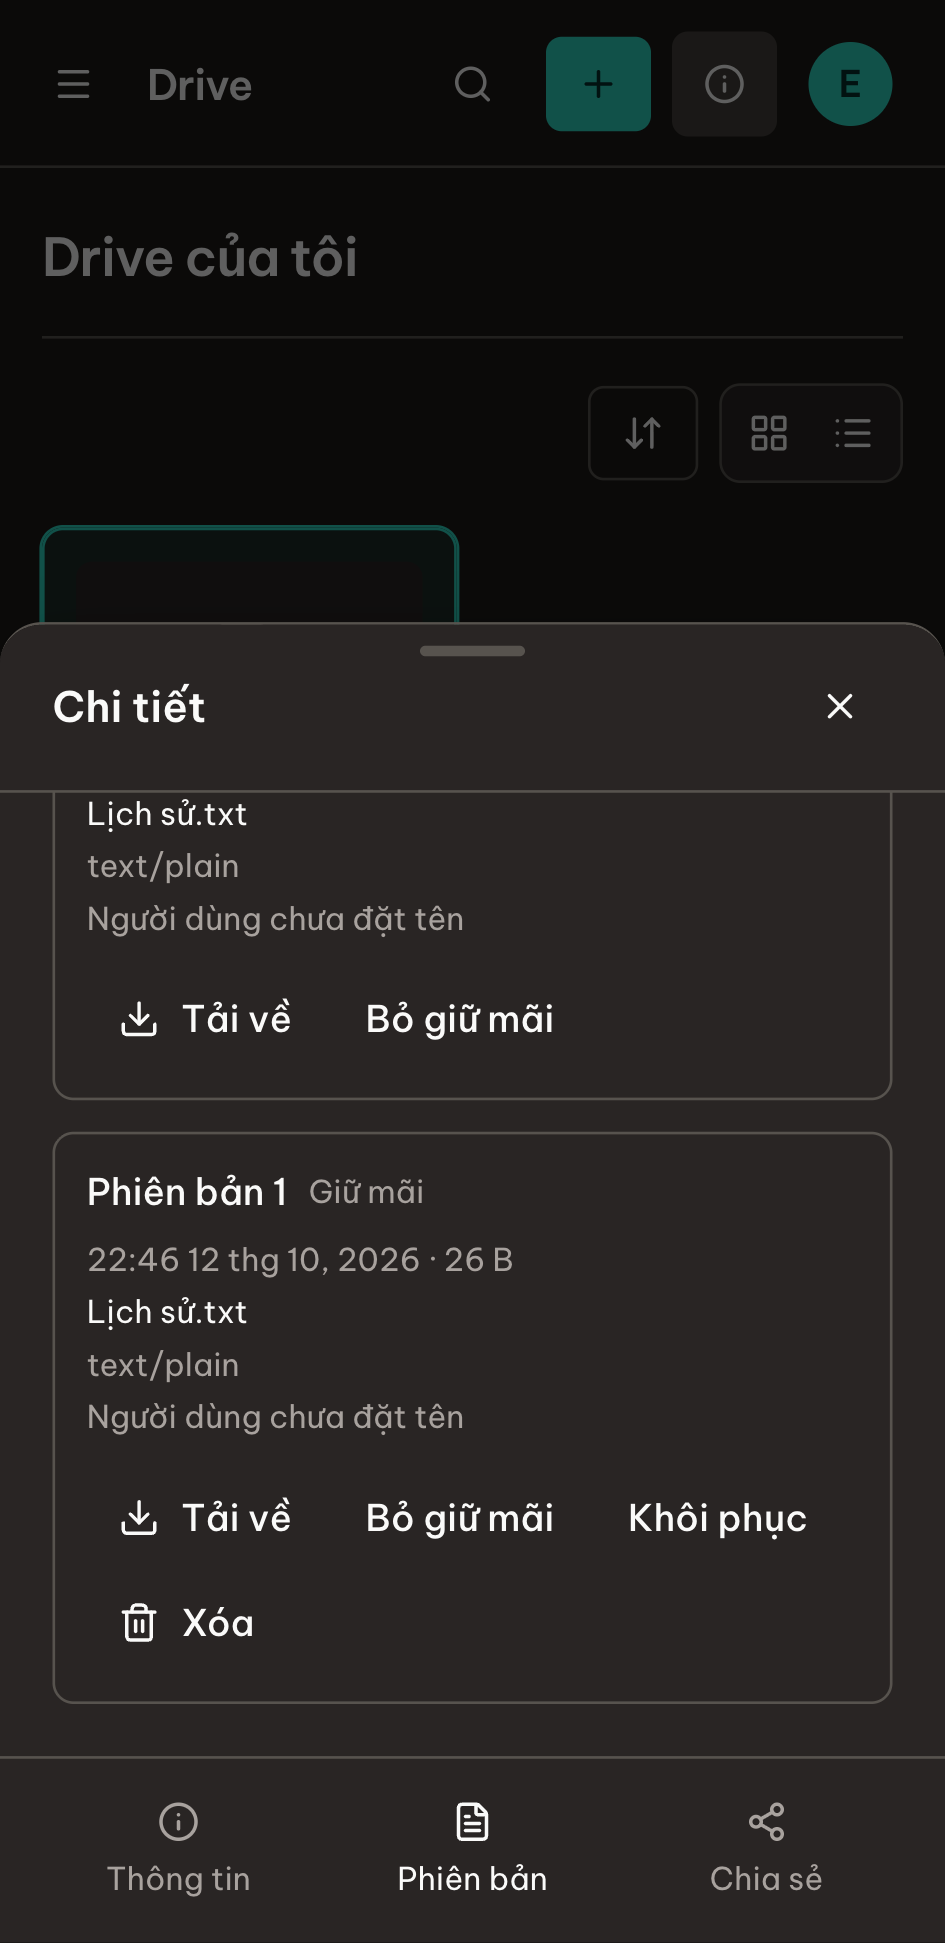
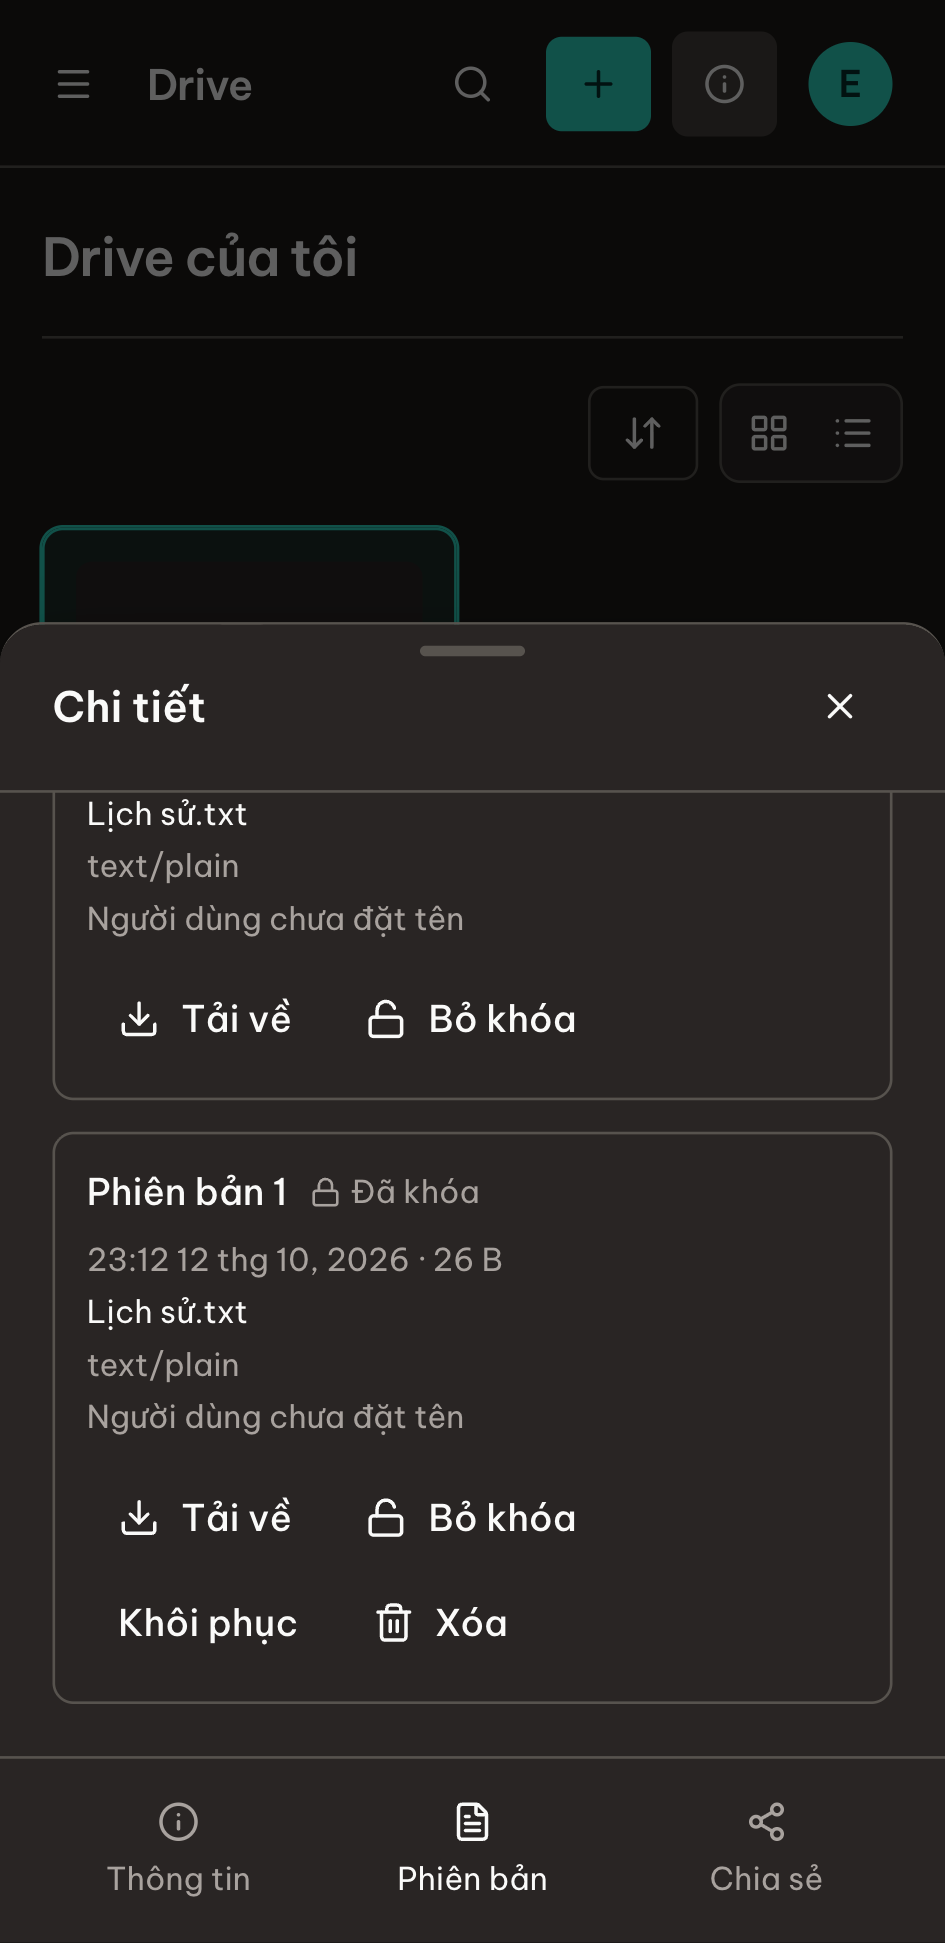
fix(fe-versions): clarify version locking controls
Rename retention actions to Lock and Unlock with explanatory titles
and matching icons. Keep storage accounting unchanged.

Refs #159

diff --git a/qloud_frontend/src/features/versions/version-panel.tsx b/qloud_frontend/src/features/versions/version-panel.tsx
@@ -1,6 +1,6 @@
 import * as React from 'react';
 import * as Dialog from '@radix-ui/react-dialog';
-import { Download, History, Trash2 } from 'lucide-react';
+import { Download, History, Lock, LockOpen, Trash2 } from 'lucide-react';
 import { useTranslation } from 'react-i18next';
 import { useQueryClient } from '@tanstack/react-query';
 import { Button } from '@/components/ui/button';
@@ -116,7 +116,11 @@ export function VersionPanel({ node }: { node: DriveNode }): React.JSX.Element {
                   </span>
                 )}
                 {version.keep_forever && (
-                  <span className="text-xs text-muted-foreground">
+                  <span
+                    className="inline-flex items-center gap-1 text-xs text-muted-foreground"
+                    title={t('versions.keepTitle')}
+                  >
+                    <Lock className="size-3" aria-hidden="true" />
                     {t('versions.kept')}
                   </span>
                 )}
@@ -170,6 +174,11 @@ export function VersionPanel({ node }: { node: DriveNode }): React.JSX.Element {
                     size="sm"
                     disabled={pending}
                     aria-pressed={version.keep_forever}
+                    title={t(
+                      version.keep_forever
+                        ? 'versions.unkeepTitle'
+                        : 'versions.keepTitle',
+                    )}
                     aria-label={t('versions.keepLabel', {
                       number: version.version_number,
                     })}
@@ -177,6 +186,11 @@ export function VersionPanel({ node }: { node: DriveNode }): React.JSX.Element {
                       retention.mutate(version);
                     }}
                   >
+                    {version.keep_forever ? (
+                      <LockOpen aria-hidden="true" />
+                    ) : (
+                      <Lock aria-hidden="true" />
+                    )}
                     {t(
                       version.keep_forever
                         ? 'versions.unkeep'

diff --git a/qloud_frontend/src/features/versions/versions.test.tsx b/qloud_frontend/src/features/versions/versions.test.tsx
@@ -94,7 +94,7 @@ describe('version panel', () => {
       role = value;
       setup();
       expect(await screen.findByText('Hiện tại')).toBeVisible();
-      expect(screen.getAllByText('Giữ mãi').length).toBeGreaterThan(0);
+      expect(screen.getAllByText('Đã khóa').length).toBeGreaterThan(0);
       expect(screen.getAllByText('Tài khoản đã bị xóa')).toHaveLength(2);
       expect(
         screen.getByRole('button', { name: 'Tải phiên bản 1' }),
@@ -369,15 +369,19 @@ it('owner toggles current and old retention only after success and handles error
   setup();
   const user = userEvent.setup();
   const old = await screen.findByRole('button', {
-    name: 'Giữ mãi phiên bản 1',
+    name: 'Khóa phiên bản 1',
   });
   expect(old).toHaveAttribute('aria-pressed', 'false');
+  expect(old).toHaveTextContent('Khóa');
+  expect(old).toHaveAttribute('title', i18n.t('versions.keepTitle'));
   await user.click(old);
   await waitFor(() => expect(old).toHaveAttribute('aria-pressed', 'true'));
-  await user.click(screen.getByRole('button', { name: 'Giữ mãi phiên bản 2' }));
+  expect(old).toHaveTextContent('Bỏ khóa');
+  expect(old).toHaveAttribute('title', i18n.t('versions.unkeepTitle'));
+  await user.click(screen.getByRole('button', { name: 'Khóa phiên bản 2' }));
   await waitFor(() =>
     expect(
-      screen.getByRole('button', { name: 'Giữ mãi phiên bản 2' }),
+      screen.getByRole('button', { name: 'Khóa phiên bản 2' }),
     ).toHaveAttribute('aria-pressed', 'false'),
   );
   expect(patch).toHaveBeenCalledWith(
@@ -399,7 +403,7 @@ it.each(['viewer', 'editor'] as const)(
     setup();
     await screen.findByText('Hiện tại');
     expect(
-      screen.queryByRole('button', { name: 'Giữ mãi phiên bản 1' }),
+      screen.queryByRole('button', { name: 'Khóa phiên bản 1' }),
     ).not.toBeInTheDocument();
   },
 );

diff --git a/qloud_frontend/e2e/version-ui.spec.ts b/qloud_frontend/e2e/version-ui.spec.ts
@@ -207,7 +207,7 @@ for (const role of ['viewer', 'editor'] as const) {
         actor.getByRole('button', { name: 'Xóa phiên bản 1' }),
       ).toHaveCount(0);
       await expect(
-        actor.getByRole('button', { name: 'Giữ mãi phiên bản 1' }),
+        actor.getByRole('button', { name: 'Khóa phiên bản 1' }),
       ).toHaveCount(0);
       if (role === 'viewer') {
         await expect(
@@ -280,14 +280,14 @@ test('owner toggles keep forever on old and current versions', async ({
   await page.goto('/drive');
   await openHistory(page);
   const old = page.getByRole('button', {
-    name: 'Giữ mãi phiên bản 1',
+    name: 'Khóa phiên bản 1',
     exact: true,
   });
   await expect(old).toHaveAttribute('aria-pressed', 'false');
   await old.click();
   await expect(old).toHaveAttribute('aria-pressed', 'true');
   const current = page.getByRole('button', {
-    name: 'Giữ mãi phiên bản 2',
+    name: 'Khóa phiên bản 2',
     exact: true,
   });
   await current.click();

diff --git a/qloud_docs/features/versioning.md b/qloud_docs/features/versioning.md
@@ -15,7 +15,7 @@
   Khi đó Blob cần đếm số tham chiếu (reference count), hoặc chỉ được xóa khi không còn version nào trỏ tới.
 - Xóa một phiên bản: chỉ owner, không xóa được phiên bản hiện tại. Dung lượng chỉ được giảm khi Blob không còn ai tham chiếu.
 - Chính sách giữ lại phiên bản theo plan của owner: giữ tối đa `max_versions_per_file` phiên bản cũ, và phiên bản cũ quá `version_retention_days` thì bị dọn
-  (plan mặc định: 100 phiên bản, 30 ngày). Phiên bản được đánh dấu **"Giữ mãi"** (`keep_forever`) không bị dọn tự động. Celery dọn hằng ngày.
+  (plan mặc định: 100 phiên bản, 30 ngày). Phiên bản được đánh dấu **"Khóa"** (`keep_forever`) không bị dọn tự động. Celery dọn hằng ngày.
 - Quota owner tính mỗi Blob được các phiên bản tham chiếu đúng một lần, kể cả file trong thùng rác; khôi phục dùng chung Blob nên không tính thêm.
 
 ## M7-01 — Upload phiên bản mới
@@ -27,7 +27,7 @@
 - Current version, size, MIME và updated_at đổi nguyên tử; reset thumbnail cũ, enqueue thumbnail cho bản mới sau commit. Preview/download/link chia sẻ lấy nội dung mới. Blob/version cũ được giữ nguyên.
 - UI trùng tên có **Thay thế**, **Giữ cả hai**, **Bỏ qua**, cùng áp dụng cho các file còn lại. Upload dở dang resume vào cùng target qua session cũ. Hoàn tất làm mới chi tiết node, folder ban đầu/folder hiện tại, Gần đây và danh sách Được chia sẻ.
 - Migration `uploads.0002` thêm FK nullable và mở rộng on_conflict. Khi rollback, session thay thế đang active bị hủy và trả quota; Blob/version đã hoàn tất vẫn giữ nguyên. Multipart dở dang còn trên S3 được lifecycle 8 ngày dọn.
-- API lịch sử/restore/delete ở M7-02; tab Phiên bản ở M7-03; dọn theo plan/“Giữ mãi” ở [M7-04 #159](https://github.com/q2kit/qloud/issues/159).
+- API lịch sử/restore/delete ở M7-02; tab Phiên bản ở M7-03; dọn theo plan/“Khóa” ở [M7-04 #159](https://github.com/q2kit/qloud/issues/159).
 
 ## M7-02 — API lịch sử phiên bản
 
@@ -47,16 +47,16 @@ Owner [duyệt kế hoạch ngày 12/10/2026](https://github.com/q2kit/qloud/iss
 - Viewer tải mọi phiên bản. Editor/owner khôi phục bản cũ sau xác nhận tạo version mới, không tăng quota. Chỉ owner xóa bản cũ sau xác nhận không hoàn tác. Không hiện restore/delete cho current; giữ focus khi đóng xác nhận, khóa thao tác đang gửi.
 - API chi tiết node bổ sung capability `can_delete_versions` chỉ true cho owner của file còn sống, public/folder/root luôn false; restore dùng `can_edit`. Capability chỉ điều khiển hiển thị, server vẫn quyết định quyền từng request.
 - Xóa cập nhật lạc quan và rollback khi lỗi. Restore chỉ cập nhật current sau response thành công. Làm mới lịch sử, chi tiết, lựa chọn, folder ban đầu/hiện tại, recent/shared/search/preview của file; upload hoàn tất làm mới history đang mở. 404/409 có thông báo đã dịch và tải lại dữ liệu/quyền, response file cũ không đổi lựa chọn file mới.
-- Giữ mãi chỉ hiện nhãn; thay đổi flag và chính sách dọn thuộc M7-04. Tab Chia sẻ hiện có vẫn là vị trí chưa triển khai.
+- Khóa chỉ hiện nhãn; thay đổi flag và chính sách dọn thuộc M7-04. Tab Chia sẻ hiện có vẫn là vị trí chưa triển khai.
 
-## M7-04 — Chính sách giữ lại và Giữ mãi
+## M7-04 — Chính sách giữ lại và Khóa
 
 Owner [duyệt kế hoạch ngày 12/10/2026](https://github.com/q2kit/qloud/issues/159#issuecomment-6127587370).
-- Chỉ owner bật/tắt `keep_forever` bằng PATCH phiên bản, kể cả current; node còn sống và version thuộc node. Current luôn được bảo vệ dù không ghim. Giữ mãi chỉ ngăn dọn tự động; owner vẫn có thể xóa thủ công bản cũ.
-- Bản Giữ mãi không chiếm hạn mức. Giữ tối đa `max_versions_per_file` bản cũ không ghim mới nhất theo `version_number`; đồng thời dọn bản cũ không ghim có `created_at` nhỏ hơn thời điểm chạy trừ `version_retention_days`. Đúng ranh giới thời gian vẫn được giữ. Null bỏ giới hạn tuổi; hạn mức 0 dọn mọi bản cũ không ghim.
+- Chỉ owner bật/tắt `keep_forever` bằng PATCH phiên bản, kể cả current; node còn sống và version thuộc node. Current luôn được bảo vệ dù không ghim. Khóa chỉ ngăn dọn tự động; owner vẫn có thể xóa thủ công bản cũ.
+- Phiên bản được khóa không chiếm hạn mức số phiên bản cũ không khóa; vẫn tính vào quota dung lượng. Giữ tối đa `max_versions_per_file` bản cũ không ghim mới nhất theo `version_number`; đồng thời dọn bản cũ không ghim có `created_at` nhỏ hơn thời điểm chạy trừ `version_retention_days`. Đúng ranh giới thời gian vẫn được giữ. Null bỏ giới hạn tuổi; hạn mức 0 dọn mọi bản cũ không ghim.
 - Beat chạy `expire_versions` mỗi 24 giờ, gồm file trong trash và owner bị khóa. Quét file bằng cursor UUID theo batch 200; mỗi transaction dọn tối đa 200 version của một file, đọc lại plan/current/ghim dưới khóa owner → node → Blob. Upload/restore/delete/ghim dùng cùng khóa owner, nên kết quả dựa trên thao tác đã commit trước.
 - Dọn metadata và quota nguyên tử, Blob dùng chung chỉ trừ một lần khi hết tham chiếu. Ghi ObjectDeletion cho thumbnail và Blob hết tham chiếu, worker xóa S3 sau commit và retry khi lỗi. Chạy lại hoặc nhiều worker không trừ quota lặp; mỗi deployment vẫn chỉ chạy một beat.
-- Tab Phiên bản có nút Giữ mãi/Bỏ giữ mãi cho owner, hỗ trợ bàn phím và `aria-pressed`; viewer/editor chỉ thấy nhãn. Chỉ đổi flag sau API thành công, khóa thao tác lúc gửi, báo lỗi đã dịch và tải lại lịch sử sau thành công/lỗi để xử lý phiên bản bị dọn hoặc quyền thay đổi.
+- Tab Phiên bản có nút Khóa/Bỏ khóa cho owner, có icon ổ khóa/mở khóa và title giải thích bảo vệ khỏi dọn tự động, vẫn tính dung lượng và cho phép xóa thủ công; hỗ trợ bàn phím và `aria-pressed`; viewer/editor chỉ thấy nhãn. Chỉ đổi flag sau API thành công, khóa thao tác lúc gửi, báo lỗi đã dịch và tải lại lịch sử sau thành công/lỗi để xử lý phiên bản bị dọn hoặc quyền thay đổi.
 - Không thêm migration/dependency; schema API và type FE được sinh lại.
 
 ## Tiêu chí chấp nhận
@@ -66,4 +66,4 @@ Owner [duyệt kế hoạch ngày 12/10/2026](https://github.com/q2kit/qloud/iss
 
 - [x] Panel có lịch sử và hành động đúng quyền; UI tải/restore/delete hoạt động ở light/dark, desktop/360px.
 
-- [x] Dọn theo plan, bảo vệ current/Giữ mãi và quota Blob dùng chung; owner bật/tắt Giữ mãi trong tab Phiên bản.
+- [x] Dọn theo plan, bảo vệ current/Khóa và quota Blob dùng chung; owner bật/tắt Khóa trong tab Phiên bản.

diff --git a/qloud_docs/ui-ux.md b/qloud_docs/ui-ux.md
@@ -55,7 +55,7 @@ Mục tiêu: **gọn, yên tĩnh, thao tác nhanh**.
 
 ### Tab Phiên bản (M7-03)
 
-Trong panel chi tiết, Thông tin/Phiên bản có thể đổi bằng click hoặc mũi tên/Home/End; đổi lựa chọn luôn về Thông tin. Chỉ một file còn sống mới bật Phiên bản. Danh sách card nhỏ cuộn trong panel/bottom sheet, có số version, nhãn Hiện tại/Giữ mãi, thời gian/dung lượng, tên gốc/MIME và uploader. Tải thêm theo cursor; skeleton/rỗng/lỗi có Thử lại. Hành động tải cho viewer, restore cho editor/owner, delete cho owner; current không có restore/delete. Restore/delete có hộp xác nhận và focus quay lại hành động hoặc danh sách khi phiên bản đã xóa. Nội dung/thao tác co ở 360px, chuỗi vi/en và màu token. Chi tiết: [versioning.md](features/versioning.md#m7-03--tab-phiên-bản).
+Trong panel chi tiết, Thông tin/Phiên bản có thể đổi bằng click hoặc mũi tên/Home/End; đổi lựa chọn luôn về Thông tin. Chỉ một file còn sống mới bật Phiên bản. Danh sách card nhỏ cuộn trong panel/bottom sheet, có số version, nhãn Hiện tại/Khóa, thời gian/dung lượng, tên gốc/MIME và uploader. Tải thêm theo cursor; skeleton/rỗng/lỗi có Thử lại. Hành động tải cho viewer, restore cho editor/owner, delete cho owner; current không có restore/delete. Restore/delete có hộp xác nhận và focus quay lại hành động hoặc danh sách khi phiên bản đã xóa. Nội dung/thao tác co ở 360px, chuỗi vi/en và màu token. Chi tiết: [versioning.md](features/versioning.md#m7-03--tab-phiên-bản).
 
 ## Danh sách màn hình
 
@@ -134,4 +134,4 @@ Route `/moderation` trong app shell chỉ cho superuser (flag `/me.is_superuser`
 - Nhập từ khóa: debounce 150ms, tối đa 8 gợi ý và mục “Xem tất cả kết quả”; dùng ↑/↓ để chọn, Enter để mở, Esc để đóng và trả focus về điểm mở. Dialog có loading, lỗi/thử lại và trạng thái rỗng.
 - S-09 giữ từ khóa, loại, người sở hữu và ngày sửa trong URL; dùng lưới/danh sách chung. API xếp theo độ liên quan, UI giữ nguyên thứ tự đó. File mở viewer, folder mở Drive; mục được chia sẻ hiện owner/quyền, dữ liệu được tải thêm bằng cursor.
 
-M7-04: tab Phiên bản thêm nút Giữ mãi/Bỏ giữ mãi cho owner, cả current và bản cũ; nút có `aria-pressed`, khóa trong lúc gửi và chỉ cập nhật sau thành công. Viewer/editor chỉ thấy nhãn Giữ mãi. Hướng thiết kế và vị trí panel giữ nguyên.
+M7-04: tab Phiên bản thêm nút Khóa/Bỏ khóa cho owner, cả current và bản cũ; nút có icon ổ khóa/mở khóa, title giải thích tác dụng và `aria-pressed`, khóa trong lúc gửi và chỉ cập nhật sau thành công. Viewer/editor chỉ thấy nhãn Khóa. Hướng thiết kế và vị trí panel giữ nguyên.

diff --git a/qloud_docs/api.md b/qloud_docs/api.md
@@ -133,7 +133,7 @@ M2-04: `POST /uploads` trả session `{id, part_size, part_count, expires_at, ..
 | GET | `/nodes/{id}/versions` | Danh sách phiên bản |
 | GET | `/nodes/{id}/versions/{vid}/download` | Tải một phiên bản cũ |
 | POST | `/nodes/{id}/versions/{vid}/restore` | Đặt phiên bản này làm phiên bản hiện tại (tạo version mới) |
-| PATCH | `/nodes/{id}/versions/{vid}` | Bật/tắt Giữ mãi (owner) |
+| PATCH | `/nodes/{id}/versions/{vid}` | Bật/tắt Khóa (owner) |
 | DELETE | `/nodes/{id}/versions/{vid}` | Xóa một phiên bản (không xóa được phiên bản hiện tại) |
 
 M7-03 bổ sung `capabilities.can_delete_versions` vào chi tiết node: true cho owner của file còn sống, false cho folder/root và public. Editor/viewer không có capability này; quyền restore vẫn theo `can_edit`. Không đổi luật kiểm tra quyền của endpoint.
@@ -143,7 +143,7 @@ M7-02 triển khai cả bốn endpoint, chỉ cho file còn sống và phiên đ
 - List trả `{results, next, previous}`, `version_number` giảm dần, page_size mặc định 50, tối đa 200. Version gồm `{id, version_number, size, mime_type, original_name, uploaded_by: {id, display_name} | null, created_at, keep_forever, is_current}`; không có email/storage_key.
 - Download trả `200 {url, expires_at}`, tên file theo node hiện tại, MIME an toàn của version đã chọn; TTL giống download current. Byte đi trực tiếp tới S3.
 - Restore không nhận body, trả `200 Node`; tạo version mới dùng chung Blob nguồn, quota không tăng kể cả đã đầy. Reset/enqueue thumbnail cho version mới, giữ tên/vị trí/share/link.
-- PATCH nhận bắt buộc `{keep_forever: boolean}` (JSON boolean), trả `200 FileVersion` với `is_current`. Chỉ owner, kể cả current; 400 khi thiếu/sai kiểu hoặc folder, 404 khi node trash/không có quyền/version sai node. Giữ mãi không ngăn owner xóa thủ công bản cũ.
+- PATCH nhận bắt buộc `{keep_forever: boolean}` (JSON boolean), trả `200 FileVersion` với `is_current`. Chỉ owner, kể cả current; 400 khi thiếu/sai kiểu hoặc folder, 404 khi node trash/không có quyền/version sai node. Khóa không ngăn owner xóa thủ công bản cũ.
 - Delete trả 204; restore/delete current trả 409 `current_version`. Xóa Blob khỏi quota chỉ khi hết tham chiếu, S3/thumbnail được dọn qua hàng đợi bền vững sau commit.
 
 ### Chia sẻ

diff --git a/qloud_docs/architecture.md b/qloud_docs/architecture.md
@@ -241,4 +241,4 @@ Moderation nằm trong app sharing, dùng service duy nhất cho API superuser. 
 
 Ngữ cảnh kiểm duyệt lấy metadata node qua lớp phân quyền chung; owner theo UUID snapshot. Danh sách dùng hai correlated count subquery trên index node_uuid/status (một query mỗi trang), detail join report/link/resolver rồi thêm một query metadata node và một query owner (ba query, không N+1). Số đếm không thay đổi theo filter/cursor và giữ report sau purge. Không cấp quyền xem byte file cho moderator.
 
-M7-04: `drive.retention` quét file bằng cursor UUID và dọn version theo batch, có khóa owner → node → Blob chung với thao tác upload/restore/delete/keep_forever. Beat `expire-versions` mỗi 24 giờ áp dụng plan hiện tại cho cả trash/owner bị khóa, loại current và Giữ mãi khỏi hạn mức. Cleanup dùng ObjectDeletion và quota chỉ giảm cho Blob hết tham chiếu; không thêm dependency/migration. UI owner bật/tắt qua PATCH, cache history cập nhật sau thành công và invalidate sau mọi kết quả. Chi tiết: [versioning.md](features/versioning.md#m7-04--chính-sách-giữ-lại-và-giữ-mãi).
+M7-04: `drive.retention` quét file bằng cursor UUID và dọn version theo batch, có khóa owner → node → Blob chung với thao tác upload/restore/delete/keep_forever. Beat `expire-versions` mỗi 24 giờ áp dụng plan hiện tại cho cả trash/owner bị khóa, loại current và Khóa khỏi hạn mức. Cleanup dùng ObjectDeletion và quota chỉ giảm cho Blob hết tham chiếu; không thêm dependency/migration. UI owner bật/tắt qua PATCH, cache history cập nhật sau thành công và invalidate sau mọi kết quả. Chi tiết: [versioning.md](features/versioning.md#m7-04--chính-sách-giữ-lại-và-khóa).

diff --git a/qloud_docs/ROADMAP.md b/qloud_docs/ROADMAP.md
@@ -97,7 +97,7 @@ Xong (15 task: docs, khung BE/FE, Docker, CI, E2E, git hooks). Chi tiết: miles
 | M7-01 | Upload phiên bản mới cho file đã có (upload trùng tên thì hỏi người dùng) | [#42](https://github.com/q2kit/qloud/issues/42) | ✅ [PR #160](https://github.com/q2kit/qloud/pull/160) |
 | M7-02 | API danh sách, tải về, khôi phục, xóa phiên bản | [#43](https://github.com/q2kit/qloud/issues/43) | ✅ [PR #162](https://github.com/q2kit/qloud/pull/162) |
 | M7-03 | FE: tab Phiên bản trong panel chi tiết | [#44](https://github.com/q2kit/qloud/issues/44) | ✅ [PR #163](https://github.com/q2kit/qloud/pull/163) |
-| M7-04 | Dọn phiên bản theo plan và đánh dấu Giữ mãi | [#159](https://github.com/q2kit/qloud/issues/159) | 🟦 |
+| M7-04 | Dọn phiên bản theo plan và đánh dấu Khóa | [#159](https://github.com/q2kit/qloud/issues/159) | 🟦 |
 
 ## M8 — Hoàn thiện và deploy ([quota.md](features/quota.md))
 | ID | Task | Issue | Trạng thái |
